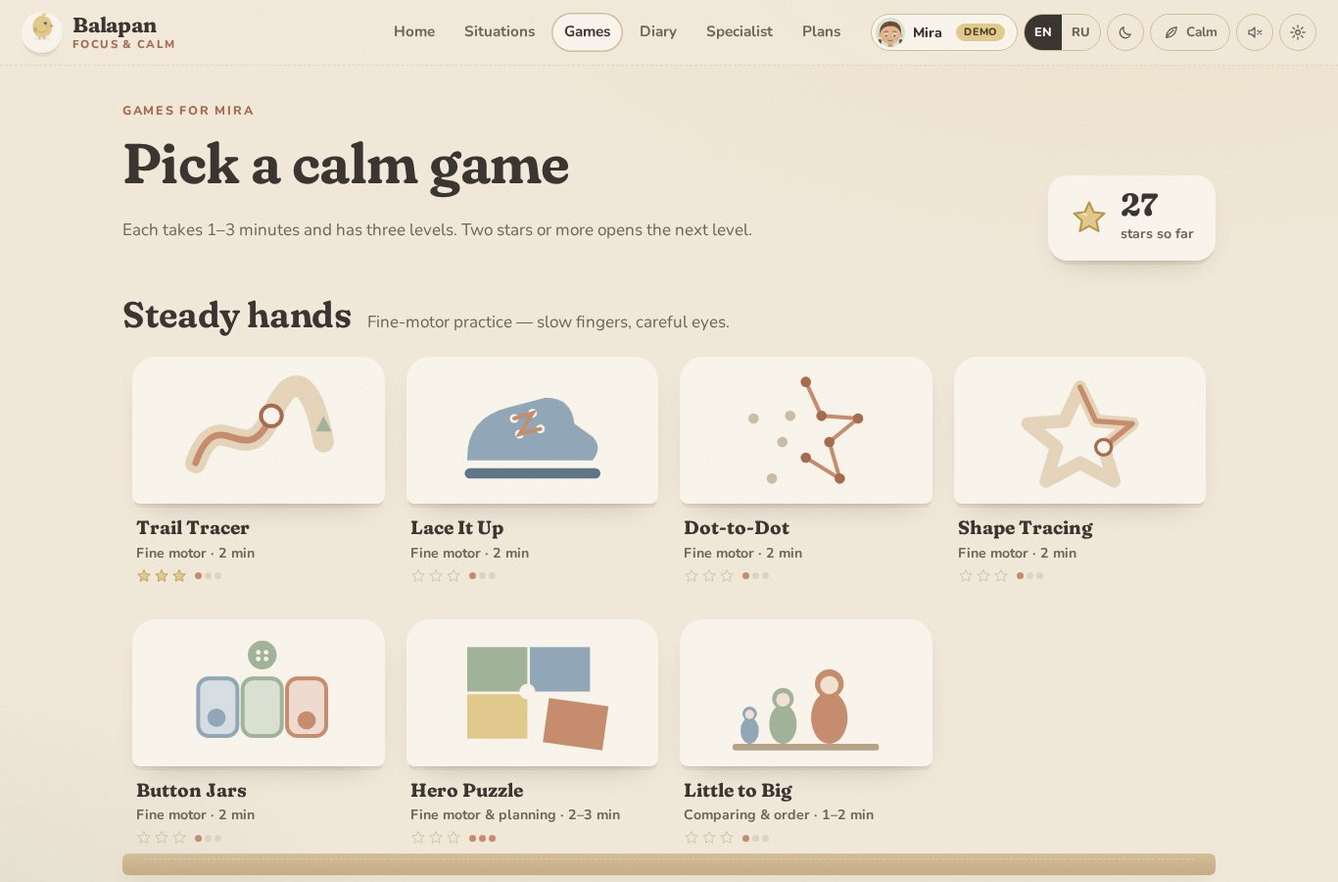
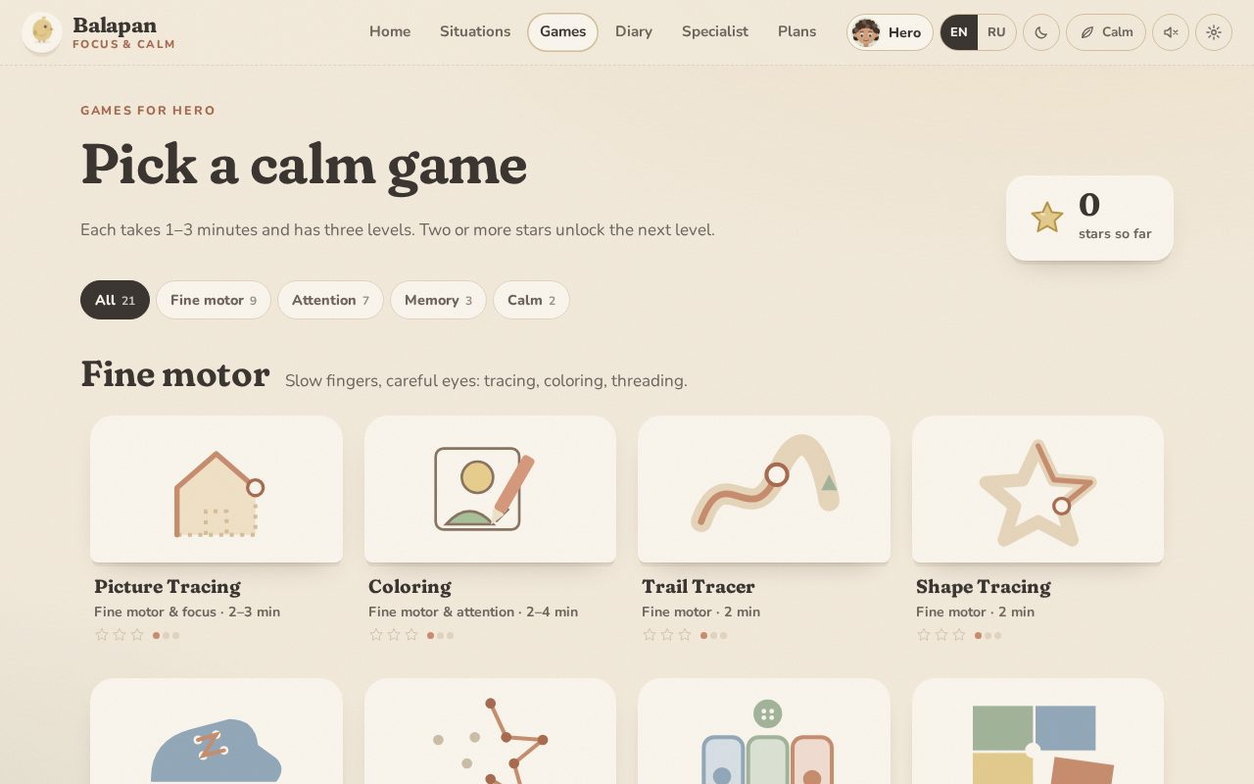
US English spelling (color), capitalized picture labels, README: 21 games + new game screenshots

diff --git a/balapan-single.html b/balapan-single.html
@@ -3775,7 +3775,7 @@ BF.gameUtil = {
 };
 BF.LEVELS = ["easy","medium","hard"];
 BF.GAME_CATS = [
-  {k:"motor", t:{en:"Fine motor",ru:"Мелкая моторика"}, d:{en:"Slow fingers, careful eyes: tracing, colouring, threading.",ru:"Медленные пальцы, внимательные глаза: обводка, раскраска, шнуровка."}, ids:["pictrace","color","trail","shapes","lace","dots","jars","puzzle","sizes"]},
+  {k:"motor", t:{en:"Fine motor",ru:"Мелкая моторика"}, d:{en:"Slow fingers, careful eyes: tracing, coloring, threading.",ru:"Медленные пальцы, внимательные глаза: обводка, раскраска, шнуровка."}, ids:["pictrace","color","trail","shapes","lace","dots","jars","puzzle","sizes"]},
   {k:"attention", t:{en:"Attention",ru:"Внимание"}, d:{en:"Look carefully, find, keep the order, ignore distractions.",ru:"Смотреть внимательно, находить, держать порядок, не отвлекаться."}, ids:["schulte","robot","changed","spot","diff","keys","backpack"]},
   {k:"memory", t:{en:"Memory",ru:"Память"}, d:{en:"Hold pictures, places and sequences in mind.",ru:"Удерживать в голове картинки, места и последовательности."}, ids:["memory","simon","rhythm"]},
   {k:"calm", t:{en:"Calm",ru:"Спокойствие"}, d:{en:"Breathe, wait, slow the body down.",ru:"Дышать, ждать, замедлять тело."}, ids:["balloon","bubbles"]}
@@ -5342,7 +5342,7 @@ BF.games.pictrace = {
     function pct(){ return allMoves ? Math.round(100*onMoves/allMoves) : 100; }
     function build(){
       var P = PICS[LIST[k]];
-      stage.innerHTML = '<div class="lvl-tag">'+T(P.n)+' · '+(k+1)+' / '+LIST.length+'</div>'+
+      stage.innerHTML = '<div class="lvl-tag">'+T(P.n).charAt(0).toUpperCase()+T(P.n).slice(1)+' · '+(k+1)+' / '+LIST.length+'</div>'+
         '<div class="pt-meter" aria-live="polite"><span>'+BF.L("Accuracy","Точность")+'</span><i><b id="ptBar"></b></i><em id="ptPct">'+pct()+'%</em></div>'+
         '<svg class="g-svg" viewBox="0 0 600 380" aria-label="'+T(P.n)+'"><g id="ptDone"></g>'+
         P.s.map(function(d){ return '<path d="'+d+'" fill="none" stroke="#E4D6BD" stroke-width="'+(TOL*2)+'" stroke-linecap="round" stroke-linejoin="round" opacity=".55"/><path d="'+d+'" fill="none" stroke="#B9A684" stroke-width="3" stroke-dasharray="2 11" stroke-linecap="round"/>'; }).join("")+
@@ -5388,8 +5388,8 @@ BF.games.pictrace = {
 
 </script>
 <script data-src="js/games/color.js">
-/* Coloring — tap a colour, then tap a part of the picture to fill it. Easy: free colouring.
-   Medium/Hard: colour by number with a legend. Eraser, undo, and a gallery that keeps finished pictures. */
+/* Coloring — tap a color, then tap a part of the picture to fill it. Easy: free coloring.
+   Medium/Hard: color by number with a legend. Eraser, undo, and a gallery that keeps finished pictures. */
 var BF = window.BF = window.BF || {};
 BF.games = BF.games || {};
 BF.COLOR_PAL = [
@@ -5397,7 +5397,7 @@ BF.COLOR_PAL = [
   {c:"#D79A7E", n:{en:"clay",ru:"терракотовый"}}, {c:"#E2B3B5", n:{en:"rose",ru:"розовый"}}, {c:"#B8AACB", n:{en:"lavender",ru:"лавандовый"}},
   {c:"#A27C62", n:{en:"brown",ru:"коричневый"}}, {c:"#EFE3CC", n:{en:"oat",ru:"бежевый"}}
 ];
-/* Each region: [id, svg element, legend colour index, label x, label y] — drawn in order (background first). */
+/* Each region: [id, svg element, legend color index, label x, label y] — drawn in order (background first). */
 BF.COLOR_PICS = {
   house:{n:{en:"House",ru:"Домик"}, r:[
     ["sky",'<rect x="0" y="0" width="600" height="300"/>',0,60,40],["grass",'<rect x="0" y="300" width="600" height="80"/>',1,60,345],
@@ -5427,8 +5427,8 @@ BF.colorThumb = function(g, w){
 };
 BF.games.color = {
   title:{en:"Coloring",ru:"Раскраска"}, skill:{en:"Fine motor & attention",ru:"Моторика и внимание"}, motor:true, cat:"motor", time:{en:"2–4 min",ru:"2–4 мин"},
-  howto:{en:"Pick a colour, then tap a part of the picture. Harder levels: match the numbers to the colour legend.",ru:"Выбери цвет и нажми на часть картинки. На сложных уровнях подбирай цвет по номеру из легенды."},
-  why:{en:"Colouring inside shapes and following a legend trains careful looking, planning and a calm, steady hand.",ru:"Раскрашивание по контуру и по легенде тренирует внимательность, планирование и спокойную, твёрдую руку."},
+  howto:{en:"Pick a color, then tap a part of the picture. Harder levels: match the numbers to the color legend.",ru:"Выбери цвет и нажми на часть картинки. На сложных уровнях подбирай цвет по номеру из легенды."},
+  why:{en:"Coloring inside shapes and following a legend trains careful looking, planning and a calm, steady hand.",ru:"Раскрашивание по контуру и по легенде тренирует внимательность, планирование и спокойную, твёрдую руку."},
   art:function(){ return '<svg viewBox="0 0 120 90"><rect x="18" y="14" width="64" height="62" rx="6" fill="#FBF7EF" stroke="#8a7562" stroke-width="2"/><circle cx="50" cy="36" r="12" fill="#E8CF8F" stroke="#8a7562" stroke-width="2"/><path d="M26 72 Q44 52 62 72Z" fill="#A9C29B" stroke="#8a7562" stroke-width="2"/><path d="M64 70 L74 60" stroke="#8a7562" stroke-width="2"/><g transform="translate(86 18) rotate(30)"><rect width="10" height="48" rx="3" fill="#D79A7E"/><path d="M0 48 L5 60 L10 48Z" fill="#EFE3CC"/></g></svg>'; },
   mount:function(stage, api){
     var T = BF.ui.T, esc = BF.ui.esc, byNum = api.lv > 0;
@@ -5441,7 +5441,7 @@ BF.games.color = {
     stage.innerHTML = '<div class="cl-wrap"><div class="cl-pic"><svg class="g-svg cl-svg" viewBox="0 0 600 380" aria-label="'+esc(T(P.n))+'">'+
         P.r.map(function(r){ return r[1].replace(/^<(\w+)/, '<$1 class="cl-r" data-r="'+r[0]+'" fill="'+BLANK+'" stroke="#5b4a3e" stroke-width="3" stroke-linejoin="round"'); }).join("")+
         (byNum ? '<g class="cl-nums" pointer-events="none">'+P.r.map(function(r){ return '<text x="'+r[3]+'" y="'+r[4]+'" data-n="'+r[0]+'" text-anchor="middle" dominant-baseline="middle">'+legendNum[r[2]]+'</text>'; }).join("")+'</g>' : '')+
-      '</svg></div><div class="cl-side"><div class="cl-pal" role="group" aria-label="'+BF.L("Colours","Цвета")+'">'+
+      '</svg></div><div class="cl-side"><div class="cl-pal" role="group" aria-label="'+BF.L("Colors","Цвета")+'">'+
         (byNum ? used : PAL.map(function(_, i){ return i; })).map(function(ci){ return '<button class="cl-sw" data-ci="'+ci+'" style="--c:'+PAL[ci].c+'" aria-pressed="'+(ci===cur)+'" aria-label="'+esc(T(PAL[ci].n))+'">'+(byNum?'<b>'+legendNum[ci]+'</b>':'')+'</button>'; }).join("")+'</div>'+
         '<div class="cl-tools"><button class="btn small ghost" id="clErase" aria-pressed="false">'+BF.icon("trash",14)+' '+BF.L("Eraser","Ластик")+'</button><button class="btn small ghost" id="clUndo" disabled>'+BF.icon("back",14)+' '+BF.L("Undo","Отменить")+'</button>'+
         (byNum ? '' : '<button class="btn small sage" id="clDone" disabled>'+BF.icon("check",14)+' '+BF.L("Done — save","Готово — сохранить")+'</button>')+'</div>'+
@@ -5461,10 +5461,10 @@ BF.games.color = {
     svg.addEventListener("click", function(e){
       var t = e.target.closest && e.target.closest(".cl-r"); if(!t || finished) return;
       var id = t.getAttribute("data-r"), reg = P.r.filter(function(r){ return r[0]===id; })[0], prev = fills[id]||null, col = erase ? null : PAL[cur].c;
-      if(byNum && col && col !== PAL[reg[2]].c){ mistakes++; api.say(BF.L("Look at the number — this part needs colour ","Посмотри на номер — здесь нужен цвет ")+legendNum[reg[2]]+"."); t.classList.remove("cl-no"); void t.getBBox(); t.classList.add("cl-no"); return; }
+      if(byNum && col && col !== PAL[reg[2]].c){ mistakes++; api.say(BF.L("Look at the number — this part needs color ","Посмотри на номер — здесь нужен цвет ")+legendNum[reg[2]]+"."); t.classList.remove("cl-no"); void t.getBBox(); t.classList.add("cl-no"); return; }
       if(prev === col) return;
       hist.push([id, prev]); if(col) fills[id] = col; else delete fills[id]; paint(id, col); BF.sound.pop(); refresh();
-      if(!byNum && complete()) api.say(BF.L("All coloured! Press “Done — save”.","Всё раскрашено! Нажми «Готово — сохранить»."));
+      if(!byNum && complete()) api.say(BF.L("All colored! Press “Done — save”.","Всё раскрашено! Нажми «Готово — сохранить»."));
     });
     gallery();
     return function(){};

diff --git a/js/games/color.js b/js/games/color.js
@@ -1,5 +1,5 @@
-/* Coloring — tap a colour, then tap a part of the picture to fill it. Easy: free colouring.
-   Medium/Hard: colour by number with a legend. Eraser, undo, and a gallery that keeps finished pictures. */
+/* Coloring — tap a color, then tap a part of the picture to fill it. Easy: free coloring.
+   Medium/Hard: color by number with a legend. Eraser, undo, and a gallery that keeps finished pictures. */
 var BF = window.BF = window.BF || {};
 BF.games = BF.games || {};
 BF.COLOR_PAL = [
@@ -7,7 +7,7 @@ BF.COLOR_PAL = [
   {c:"#D79A7E", n:{en:"clay",ru:"терракотовый"}}, {c:"#E2B3B5", n:{en:"rose",ru:"розовый"}}, {c:"#B8AACB", n:{en:"lavender",ru:"лавандовый"}},
   {c:"#A27C62", n:{en:"brown",ru:"коричневый"}}, {c:"#EFE3CC", n:{en:"oat",ru:"бежевый"}}
 ];
-/* Each region: [id, svg element, legend colour index, label x, label y] — drawn in order (background first). */
+/* Each region: [id, svg element, legend color index, label x, label y] — drawn in order (background first). */
 BF.COLOR_PICS = {
   house:{n:{en:"House",ru:"Домик"}, r:[
     ["sky",'<rect x="0" y="0" width="600" height="300"/>',0,60,40],["grass",'<rect x="0" y="300" width="600" height="80"/>',1,60,345],
@@ -37,8 +37,8 @@ BF.colorThumb = function(g, w){
 };
 BF.games.color = {
   title:{en:"Coloring",ru:"Раскраска"}, skill:{en:"Fine motor & attention",ru:"Моторика и внимание"}, motor:true, cat:"motor", time:{en:"2–4 min",ru:"2–4 мин"},
-  howto:{en:"Pick a colour, then tap a part of the picture. Harder levels: match the numbers to the colour legend.",ru:"Выбери цвет и нажми на часть картинки. На сложных уровнях подбирай цвет по номеру из легенды."},
-  why:{en:"Colouring inside shapes and following a legend trains careful looking, planning and a calm, steady hand.",ru:"Раскрашивание по контуру и по легенде тренирует внимательность, планирование и спокойную, твёрдую руку."},
+  howto:{en:"Pick a color, then tap a part of the picture. Harder levels: match the numbers to the color legend.",ru:"Выбери цвет и нажми на часть картинки. На сложных уровнях подбирай цвет по номеру из легенды."},
+  why:{en:"Coloring inside shapes and following a legend trains careful looking, planning and a calm, steady hand.",ru:"Раскрашивание по контуру и по легенде тренирует внимательность, планирование и спокойную, твёрдую руку."},
   art:function(){ return '<svg viewBox="0 0 120 90"><rect x="18" y="14" width="64" height="62" rx="6" fill="#FBF7EF" stroke="#8a7562" stroke-width="2"/><circle cx="50" cy="36" r="12" fill="#E8CF8F" stroke="#8a7562" stroke-width="2"/><path d="M26 72 Q44 52 62 72Z" fill="#A9C29B" stroke="#8a7562" stroke-width="2"/><path d="M64 70 L74 60" stroke="#8a7562" stroke-width="2"/><g transform="translate(86 18) rotate(30)"><rect width="10" height="48" rx="3" fill="#D79A7E"/><path d="M0 48 L5 60 L10 48Z" fill="#EFE3CC"/></g></svg>'; },
   mount:function(stage, api){
     var T = BF.ui.T, esc = BF.ui.esc, byNum = api.lv > 0;
@@ -51,7 +51,7 @@ BF.games.color = {
     stage.innerHTML = '<div class="cl-wrap"><div class="cl-pic"><svg class="g-svg cl-svg" viewBox="0 0 600 380" aria-label="'+esc(T(P.n))+'">'+
         P.r.map(function(r){ return r[1].replace(/^<(\w+)/, '<$1 class="cl-r" data-r="'+r[0]+'" fill="'+BLANK+'" stroke="#5b4a3e" stroke-width="3" stroke-linejoin="round"'); }).join("")+
         (byNum ? '<g class="cl-nums" pointer-events="none">'+P.r.map(function(r){ return '<text x="'+r[3]+'" y="'+r[4]+'" data-n="'+r[0]+'" text-anchor="middle" dominant-baseline="middle">'+legendNum[r[2]]+'</text>'; }).join("")+'</g>' : '')+
-      '</svg></div><div class="cl-side"><div class="cl-pal" role="group" aria-label="'+BF.L("Colours","Цвета")+'">'+
+      '</svg></div><div class="cl-side"><div class="cl-pal" role="group" aria-label="'+BF.L("Colors","Цвета")+'">'+
         (byNum ? used : PAL.map(function(_, i){ return i; })).map(function(ci){ return '<button class="cl-sw" data-ci="'+ci+'" style="--c:'+PAL[ci].c+'" aria-pressed="'+(ci===cur)+'" aria-label="'+esc(T(PAL[ci].n))+'">'+(byNum?'<b>'+legendNum[ci]+'</b>':'')+'</button>'; }).join("")+'</div>'+
         '<div class="cl-tools"><button class="btn small ghost" id="clErase" aria-pressed="false">'+BF.icon("trash",14)+' '+BF.L("Eraser","Ластик")+'</button><button class="btn small ghost" id="clUndo" disabled>'+BF.icon("back",14)+' '+BF.L("Undo","Отменить")+'</button>'+
         (byNum ? '' : '<button class="btn small sage" id="clDone" disabled>'+BF.icon("check",14)+' '+BF.L("Done — save","Готово — сохранить")+'</button>')+'</div>'+
@@ -71,10 +71,10 @@ BF.games.color = {
     svg.addEventListener("click", function(e){
       var t = e.target.closest && e.target.closest(".cl-r"); if(!t || finished) return;
       var id = t.getAttribute("data-r"), reg = P.r.filter(function(r){ return r[0]===id; })[0], prev = fills[id]||null, col = erase ? null : PAL[cur].c;
-      if(byNum && col && col !== PAL[reg[2]].c){ mistakes++; api.say(BF.L("Look at the number — this part needs colour ","Посмотри на номер — здесь нужен цвет ")+legendNum[reg[2]]+"."); t.classList.remove("cl-no"); void t.getBBox(); t.classList.add("cl-no"); return; }
+      if(byNum && col && col !== PAL[reg[2]].c){ mistakes++; api.say(BF.L("Look at the number — this part needs color ","Посмотри на номер — здесь нужен цвет ")+legendNum[reg[2]]+"."); t.classList.remove("cl-no"); void t.getBBox(); t.classList.add("cl-no"); return; }
       if(prev === col) return;
       hist.push([id, prev]); if(col) fills[id] = col; else delete fills[id]; paint(id, col); BF.sound.pop(); refresh();
-      if(!byNum && complete()) api.say(BF.L("All coloured! Press “Done — save”.","Всё раскрашено! Нажми «Готово — сохранить»."));
+      if(!byNum && complete()) api.say(BF.L("All colored! Press “Done — save”.","Всё раскрашено! Нажми «Готово — сохранить»."));
     });
     gallery();
     return function(){};

diff --git a/js/screens/games.js b/js/screens/games.js
@@ -11,7 +11,7 @@ BF.gameUtil = {
 };
 BF.LEVELS = ["easy","medium","hard"];
 BF.GAME_CATS = [
-  {k:"motor", t:{en:"Fine motor",ru:"Мелкая моторика"}, d:{en:"Slow fingers, careful eyes: tracing, colouring, threading.",ru:"Медленные пальцы, внимательные глаза: обводка, раскраска, шнуровка."}, ids:["pictrace","color","trail","shapes","lace","dots","jars","puzzle","sizes"]},
+  {k:"motor", t:{en:"Fine motor",ru:"Мелкая моторика"}, d:{en:"Slow fingers, careful eyes: tracing, coloring, threading.",ru:"Медленные пальцы, внимательные глаза: обводка, раскраска, шнуровка."}, ids:["pictrace","color","trail","shapes","lace","dots","jars","puzzle","sizes"]},
   {k:"attention", t:{en:"Attention",ru:"Внимание"}, d:{en:"Look carefully, find, keep the order, ignore distractions.",ru:"Смотреть внимательно, находить, держать порядок, не отвлекаться."}, ids:["schulte","robot","changed","spot","diff","keys","backpack"]},
   {k:"memory", t:{en:"Memory",ru:"Память"}, d:{en:"Hold pictures, places and sequences in mind.",ru:"Удерживать в голове картинки, места и последовательности."}, ids:["memory","simon","rhythm"]},
   {k:"calm", t:{en:"Calm",ru:"Спокойствие"}, d:{en:"Breathe, wait, slow the body down.",ru:"Дышать, ждать, замедлять тело."}, ids:["balloon","bubbles"]}

diff --git a/js/games/pictrace.js b/js/games/pictrace.js
@@ -24,7 +24,7 @@ BF.games.pictrace = {
     function pct(){ return allMoves ? Math.round(100*onMoves/allMoves) : 100; }
     function build(){
       var P = PICS[LIST[k]];
-      stage.innerHTML = '<div class="lvl-tag">'+T(P.n)+' · '+(k+1)+' / '+LIST.length+'</div>'+
+      stage.innerHTML = '<div class="lvl-tag">'+T(P.n).charAt(0).toUpperCase()+T(P.n).slice(1)+' · '+(k+1)+' / '+LIST.length+'</div>'+
         '<div class="pt-meter" aria-live="polite"><span>'+BF.L("Accuracy","Точность")+'</span><i><b id="ptBar"></b></i><em id="ptPct">'+pct()+'%</em></div>'+
         '<svg class="g-svg" viewBox="0 0 600 380" aria-label="'+T(P.n)+'"><g id="ptDone"></g>'+
         P.s.map(function(d){ return '<path d="'+d+'" fill="none" stroke="#E4D6BD" stroke-width="'+(TOL*2)+'" stroke-linecap="round" stroke-linejoin="round" opacity=".55"/><path d="'+d+'" fill="none" stroke="#B9A684" stroke-width="3" stroke-dasharray="2 11" stroke-linecap="round"/>'; }).join("")+

diff --git a/README.md b/README.md
@@ -36,7 +36,7 @@ It runs from `file://`: data lives in classic JS files (no `fetch`, no ES module
 | **122 situations** | 40 anxiety · 36 ADHD/focus · 46 both, in 7 categories (school, home, health, out & about, friends, travel, big feelings). Each one has why it's hard, 3 parent phrases, a 5-step ladder and a warm-up game. Filters, search (EN/RU) and lazy loading in batches of 18. |
 | **Animated scene engine** | `js/core/scene.js` builds a unique SVG scene for every situation from a recipe `background|props|pose|fx|time` (28 backgrounds, ~70 props, 17 effects, day/evening/night). The scenes star the child's own avatar. They stop moving in Calm mode and under `prefers-reduced-motion`. |
 | **Brave Plan / Routine Quest** | A 7-page story with the child as hero (scene per page, read aloud), a 5-rung ladder with stars and dates. Evening check-in: "too hard" splits the step into a mini step. |
-| **16 games × 3 levels** | Easy / medium / hard. Two stars or more unlocks the next level, and progress is saved per child. Games go full-screen on phones. See the table below. |
+| **21 games × 3 levels** | Easy / medium / hard. Two stars or more unlocks the next level, and progress is saved per child. Games go full-screen on phones. See the table below. |
 | **Better voice** | Picks the most natural voice the device has (Natural / Neural / Premium / Enhanced / Google…). Per-language voice picker, slower default rate (0.86), pitch, and sentence chunking with pauses. There's an optional **neural TTS hook** (OpenAI-compatible `/audio/speech`): the key is entered in Settings and stays only in this browser. If the call fails, it falls back to the browser voice. |
 | **Several children** | Child switcher in the header. Free: 1 child · Monthly: 2 · Yearly: up to 3. Adding a child starts the same quiz. |
 | **Parent diary** | Mood 1–5, a comment and date/time. You can edit and delete entries, shown as a timeline. |
@@ -106,7 +106,7 @@ balapan-focus-calm/
 │   │                        # voice (voice ranking, chunking, neural TTS), charts, avatar, router, ui, icons, sound
 │   ├── screens/             # home (onboarding + dashboard), quiz, plan, library, brave, quest, games, diary,
 │   │                        # specialist, family, settings, pricing, safety, about, builder
-│   ├── games/               # 16 games: trail lace dots shapes jars puzzle sizes backpack balloon bubbles rhythm memory simon spot diff keys
+│   ├── games/               # 21 games: trail lace dots shapes jars puzzle sizes backpack balloon bubbles rhythm memory simon spot diff keys pictrace color schulte robot changed
 │   └── app.js               # boot, header, child switcher, theme / calm / sound
 ├── docs/screenshots/        # curated JPG screenshots · docs/sample-report-*.pdf
 └── netlify.toml · LICENSE
@@ -127,6 +127,7 @@ $0 (3 plans, 1 child) · **$12.99/month** (2 children) · **$79.99/year** (up to
 | ![First run](docs/screenshots/desktop-01-home-onboarding.jpg) | ![Library](docs/screenshots/desktop-03-library.jpg) |
 | First run: quiz on the home screen | 122 situations with animated scenes |
 | ![Keyboard Hunt](docs/screenshots/desktop-07-game-keyboard-hunt.jpg) | ![Puzzle](docs/screenshots/desktop-08-game-puzzle.jpg) |
+| ![Picture Tracing](docs/screenshots/desktop-24-game-picture-tracing.jpg) | ![Coloring (RU)](docs/screenshots/desktop-25-ru-game-coloring.jpg) |
 | Keyboard Hunt (medium) | Hero Puzzle |
 | ![Daily log](docs/screenshots/desktop-10-daily-log.jpg) | ![Trigger log](docs/screenshots/desktop-11-trigger-log.jpg) |
 | Daily log: sleep, food, day factors | Trigger outcome log + adaptive steps |
@@ -141,6 +142,7 @@ Mobile (390 × 844):
 <img src="docs/screenshots/mobile-01-onboarding.jpg" width="180" alt="Onboarding">
 <img src="docs/screenshots/mobile-02-home.jpg" width="180" alt="Home">
 <img src="docs/screenshots/mobile-03-game-keys.jpg" width="180" alt="Keyboard Hunt RU">
+<img src="docs/screenshots/mobile-09-game-number-hunt.jpg" width="180" alt="Number Hunt">
 <img src="docs/screenshots/mobile-04-daily-log.jpg" width="180" alt="Daily log">
 <img src="docs/screenshots/mobile-06-dark-home.jpg" width="180" alt="Dark theme">
 </p>
@@ -165,7 +167,7 @@ All screenshots are in [`docs/screenshots/`](docs/screenshots/).
 - **Первый запуск: квиз прямо на главной.** «Давайте познакомимся с вашим ребёнком», первый вопрос сразу на экране. 7 шагов: имя и возраст → что труднее всего → чего боится ребёнок → что делает родитель, когда ребёнку страшно → интересы → что мотивирует (+ проверка безопасности) → **план для вашей семьи**. После квиза главная становится кабинетом этого ребёнка. Квиз можно пройти заново.
 - **Трек «Навыки»:** родитель осваивает по одному навыку — слова на неделю, привычки «мягко убрать → попробовать вместо», ритм по 10 минут в день.
 - **122 ситуации** (40 тревожность · 36 СДВГ · 46 «оба») в 7 категориях. Фильтры, поиск, ленивая подгрузка. У каждой ситуации **своя анимированная SVG-сцена** с аватаром ребёнка; в спокойном режиме и при `prefers-reduced-motion` анимации выключаются.
-- **16 игр, у каждой 3 уровня** (легко / средне / сложно). Две звезды открывают следующий уровень. Новые игры: «Охота за буквами» (экранная клавиатура, латиница или кириллица по языку интерфейса; сложность растёт за счёт таймера, отвлекающих подсветок и последовательностей букв), «Обведи фигуру», «Пазл с героем», «От маленького к большому», «Барабан-эхо», «Эхо-сад» (Simon), «Найди такие же», «Найди отличия». На телефоне игры открываются на весь экран.
+- **21 игра, у каждой 3 уровня** (легко / средне / сложно). Две звезды открывают следующий уровень. Новые игры: «Охота за буквами» (экранная клавиатура, латиница или кириллица по языку интерфейса; сложность растёт за счёт таймера, отвлекающих подсветок и последовательностей букв), «Обведи фигуру», «Пазл с героем», «От маленького к большому», «Барабан-эхо», «Эхо-сад» (Simon), «Найди такие же», «Найди отличия». На телефоне игры открываются на весь экран.
 - **Голос:** автоматически выбирается самый естественный голос устройства; можно выбрать голос для каждого языка. Медленнее по умолчанию, регулируются скорость и высота, текст читается по предложениям с паузами. Есть **подключение нейроголоса** (OpenAI-совместимый API): ключ вводится в настройках и хранится только в браузере. Если нейроголос недоступен, читает голос браузера.
 - **Несколько детей:** переключатель в шапке. Бесплатно — 1 ребёнок, месячный тариф — 2, годовой — до 3.
 - **Дневник родителя** (настроение 1–5, комментарий, дата и время, правка и удаление, лента записей).
